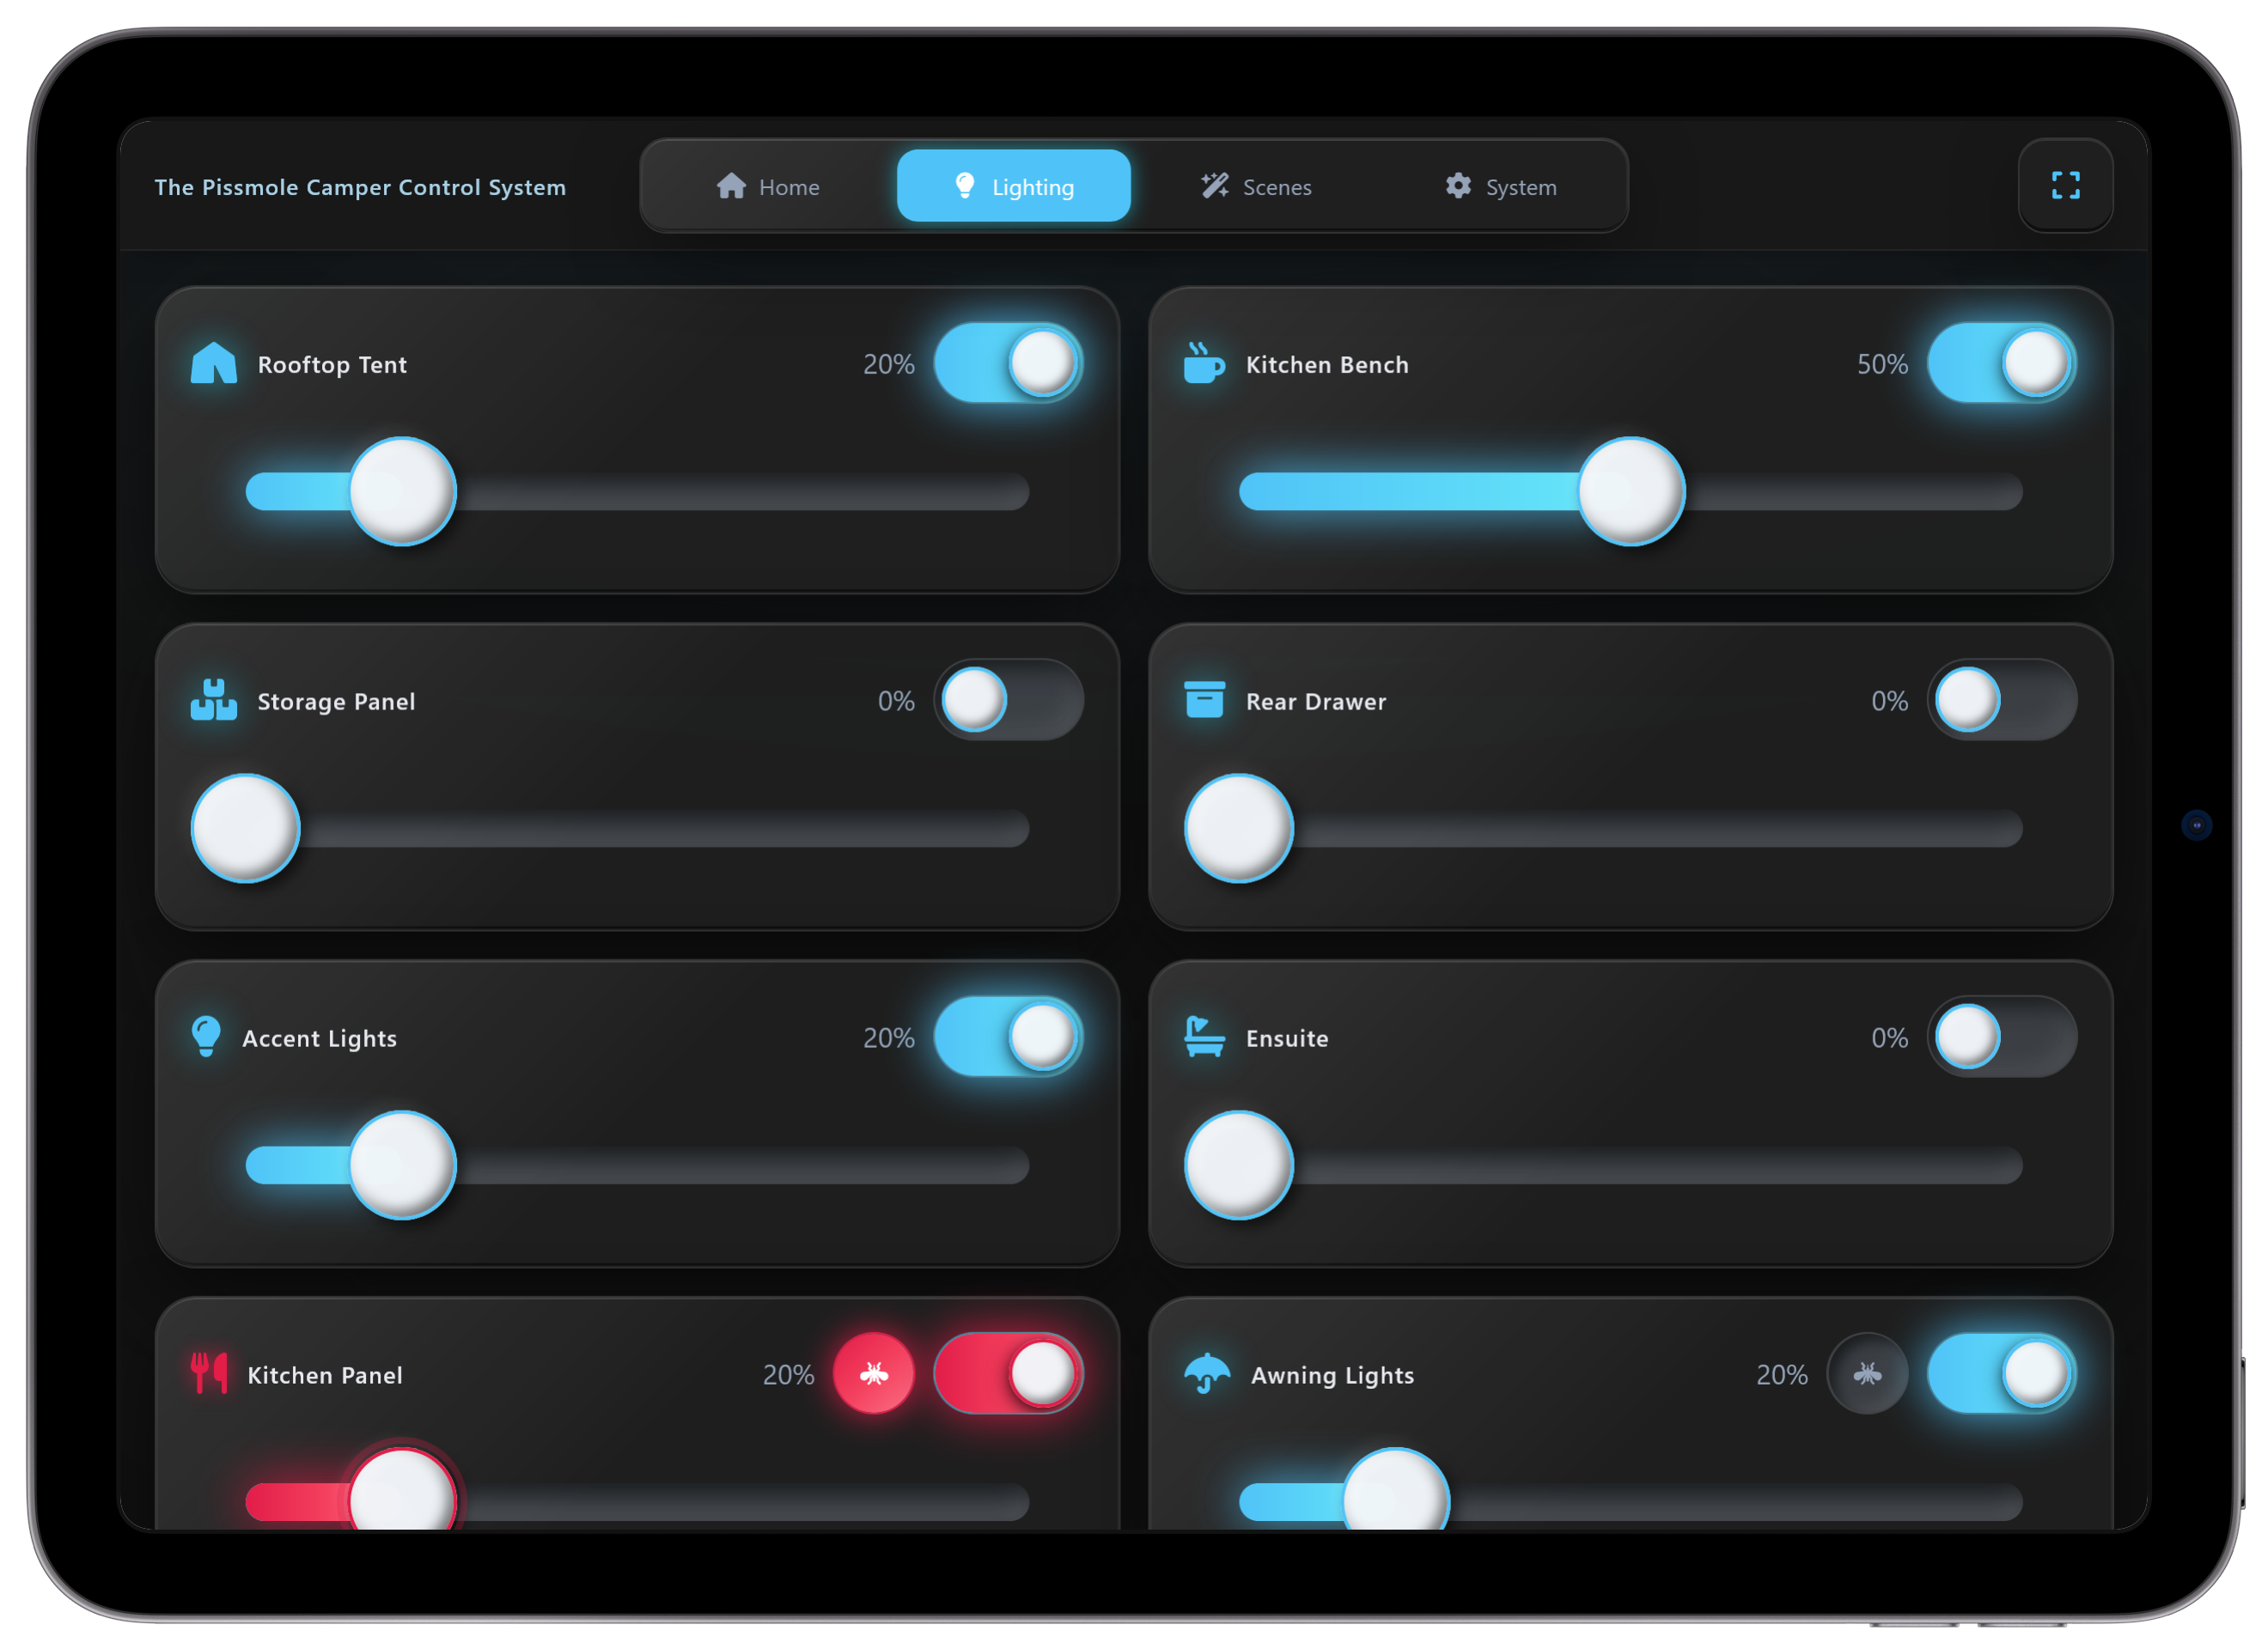
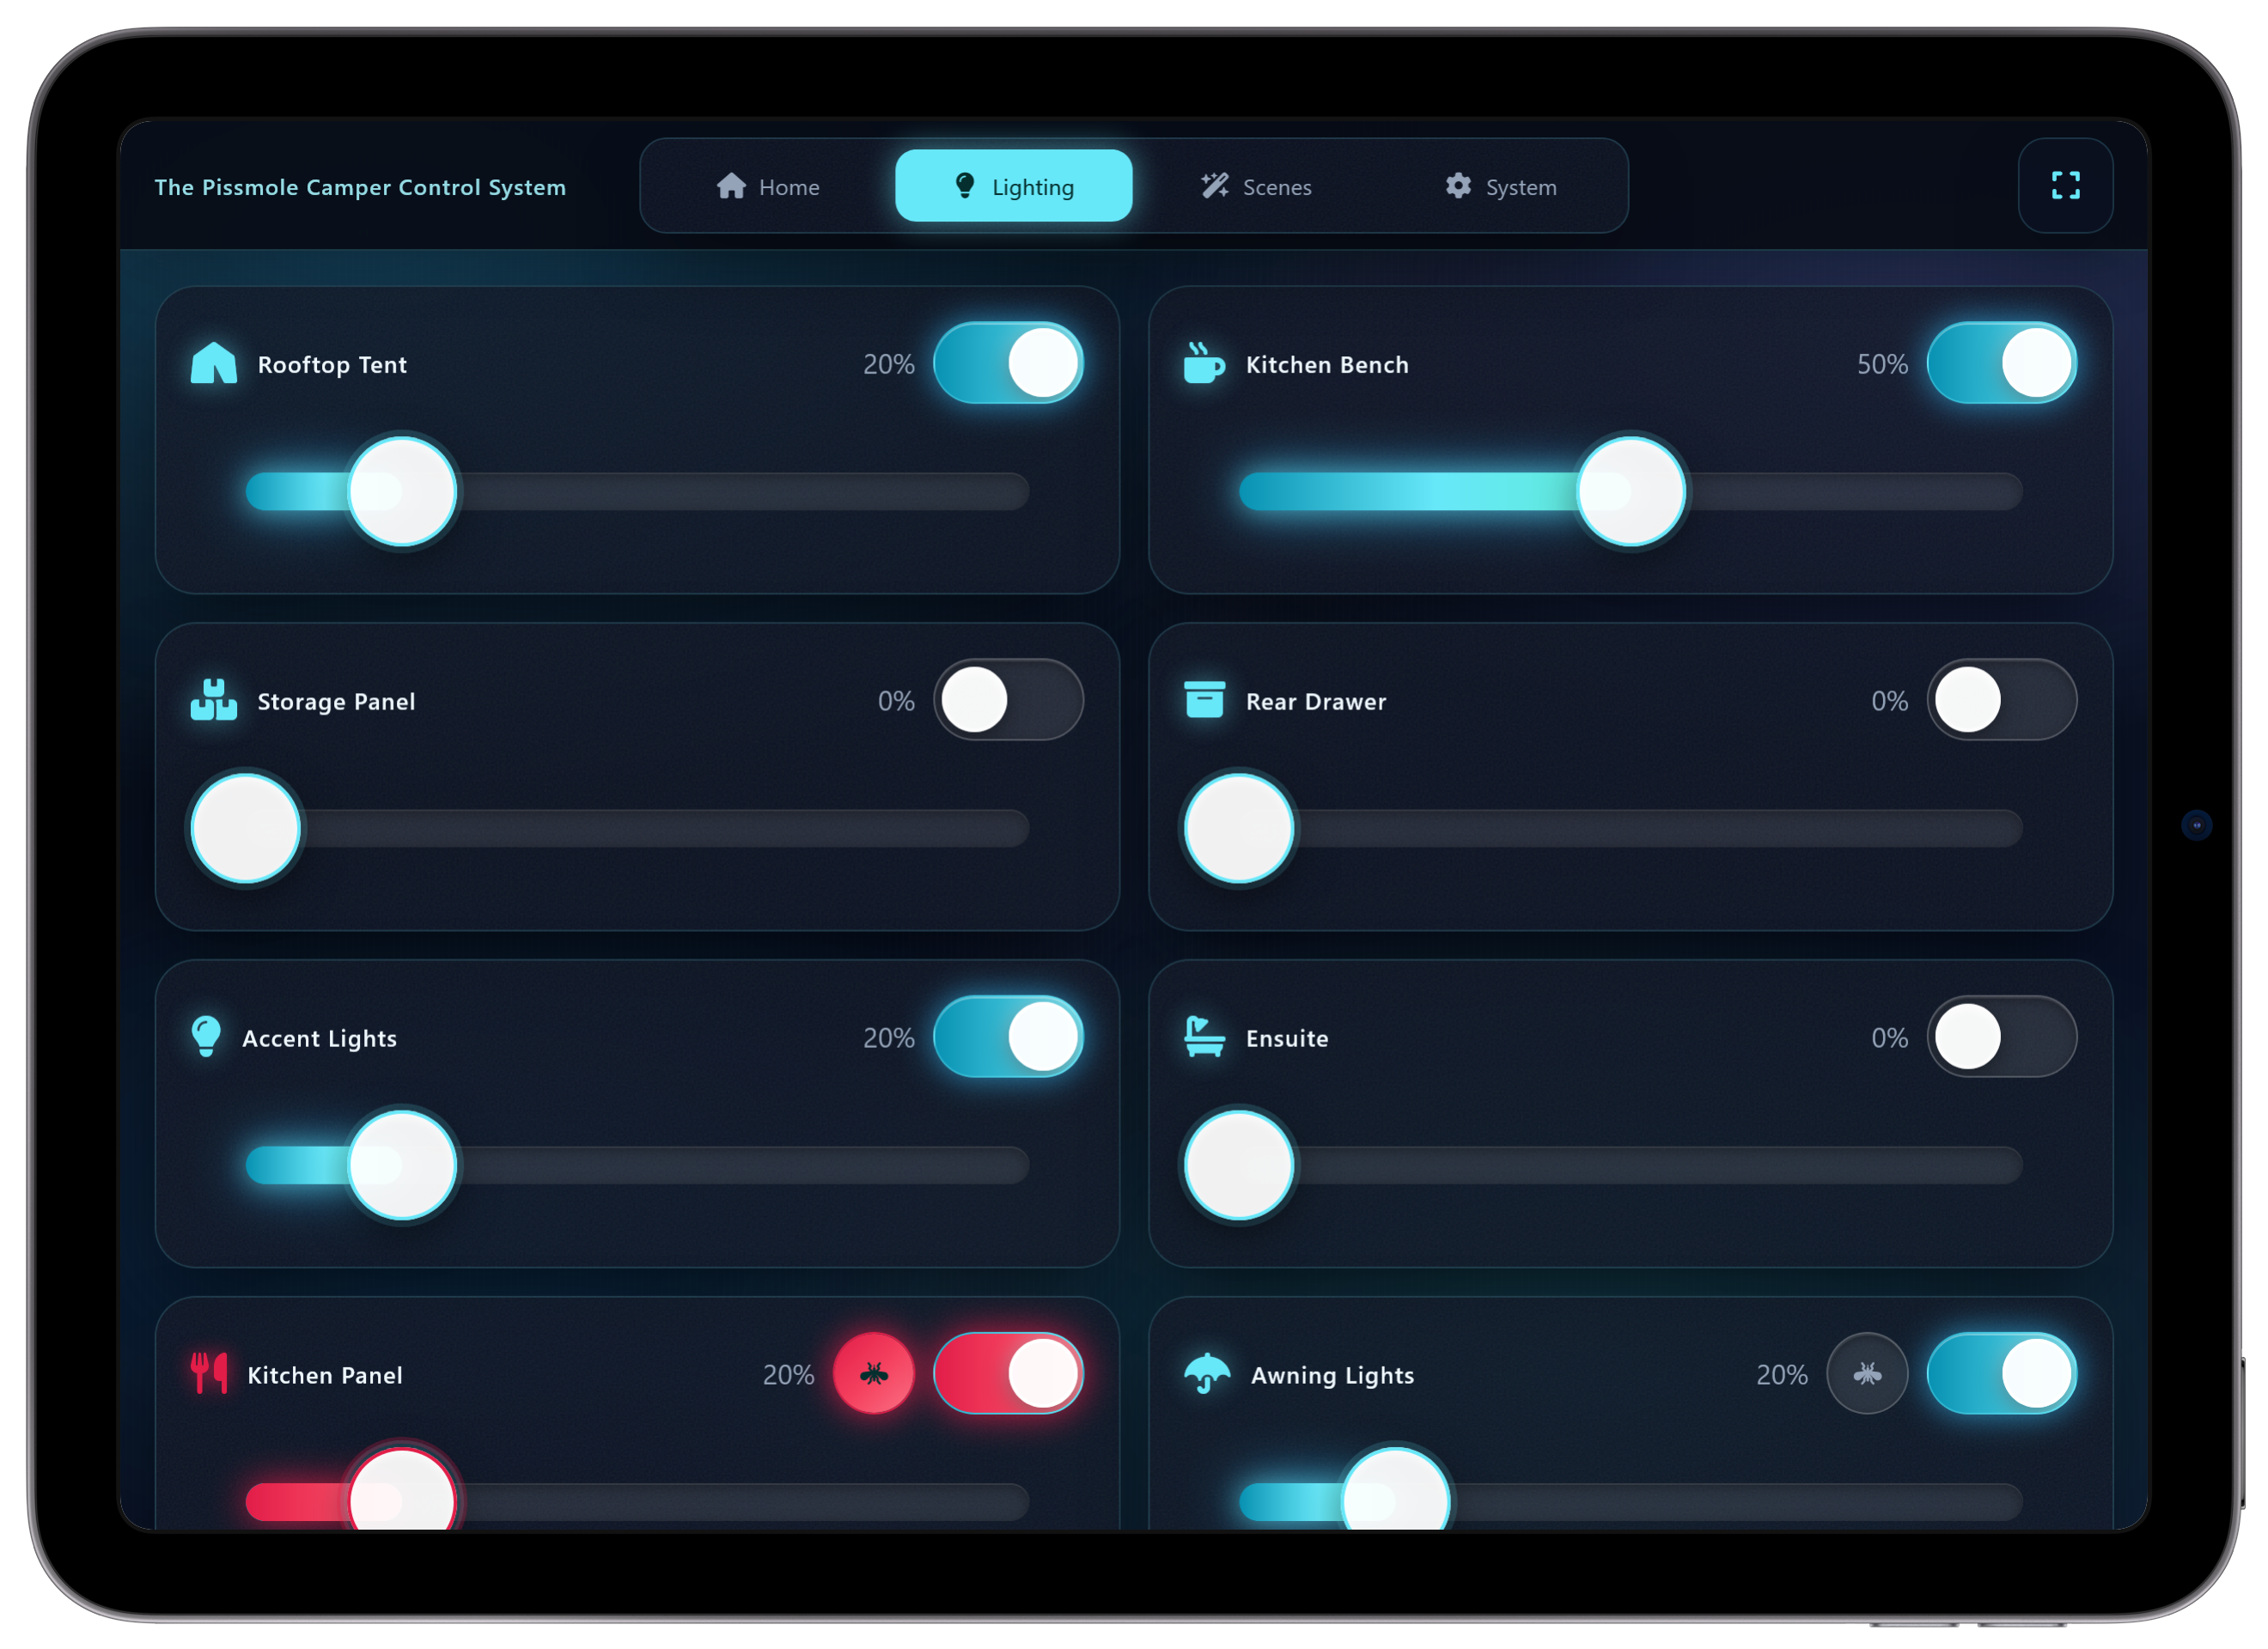
Completed documentation and image library

diff --git a/README.md b/README.md
@@ -93,10 +93,8 @@ The UI runs on touchscreens, tablets, and phones. Red indicators mark bug-mode-c
     <td align="center"><strong>Glassmorphism (Dark) — Lighting</strong></td>
   </tr>
   <tr>
-    <td align="center"><img src="images/iphone_neumorphism_dark_home_portrait.png" alt="Neumorphism dark — iPhone portrait" width="335"></td>
-  </tr>
-  <tr>
-    <td align="center"><img src="images/iphone_neumorphism_dark_home_landscape.png" alt="Neumorphism dark — iPhone landscape"></td>
+    <td align="center" width="50%"><img src="images/iphone_neumorphism_dark_home_portrait.png" alt="Neumorphism dark — iPhone portrait" height="407"></td>
+    <td align="center" width="50%"><img src="images/iphone_neumorphism_dark_home_landscape.png" alt="Neumorphism dark — iPhone landscape"></td>
   </tr>
 </table>
 
@@ -496,7 +494,7 @@ sudo find . -type f -exec chmod 664 {} \;
 
 ### Victron setup
 
-If you use a Victron SmartShunt and/or MPPT SmartSolar, PCCS reads them via passive BLE advertisements (Instant Readout). This does **not** join the VictronConnect mesh — only Instant Readout must be enabled on each device, and the Pi must be within BLE range.
+If you use a Victron SmartShunt and/or MPPT SmartSolar, PCCS reads them via passive Instant Readout so Instant Readout must be enabled on each device and the Pi must be within range.
 
 #### USB Bluetooth dongle (required)
 
@@ -696,7 +694,11 @@ Safe to re-run on every update when `config/polkit/` changes.
 
 ### Updating the PCCS
 
-1. SSH into the Pi and pull the newest version:
+1. SSH into the Pi and copy the latest project files into `$PCCS_HOME`.
+
+   **Samba** (step 7): from your PC, copy updated files into `\\10.10.10.1\pccs4`. You can overwrite the project tree; keep local files such as `config/pccs.conf`, `logs/`, and anything else you have customised.
+
+   **Git** (optional — only if you installed from the step 9 clone and still have a `.git` folder):
 
 ```bash
 export USERNAME=pi
@@ -704,6 +706,12 @@ export PCCS_HOME=/home/$USERNAME/pccs4
 
 cd "$PCCS_HOME"
 git pull
+```
+
+   Then refresh Python dependencies:
+
+```bash
+cd "$PCCS_HOME"
 source venv/bin/activate
 pip install -r requirements.txt
 